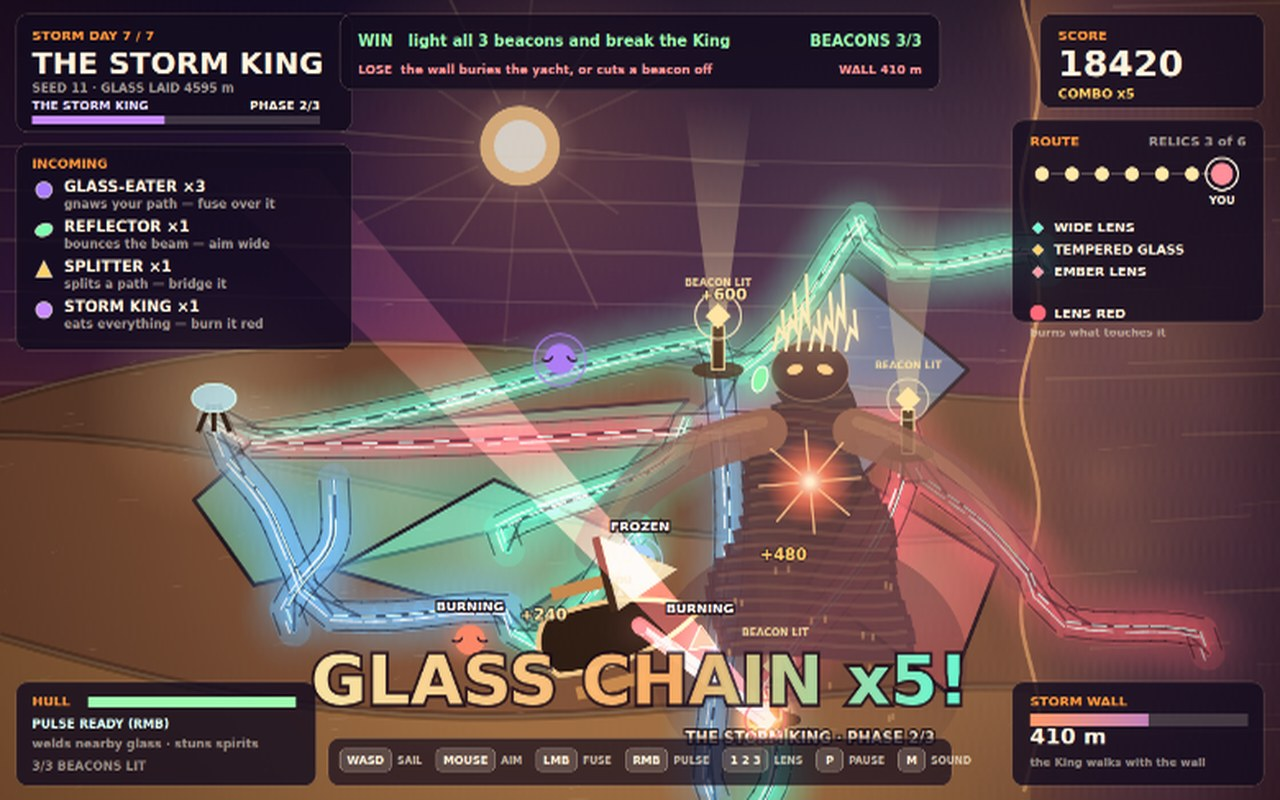
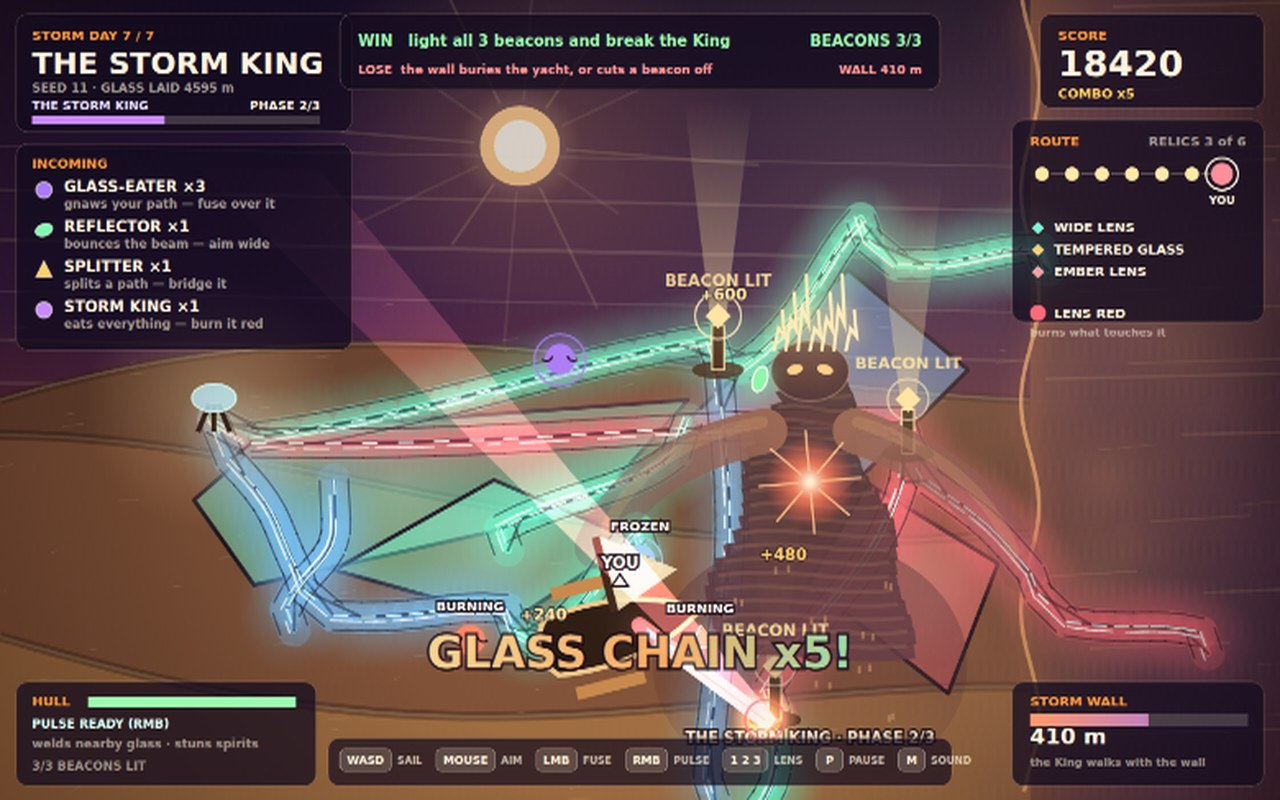
Quieter chrome: smaller combo, lighter panels, an unmissable YOU marker

diff --git a/game/src/hud.js b/game/src/hud.js
@@ -8,7 +8,7 @@ import { PALETTE, ARENA, FONT, font } from './config.js';
 const SANS = FONT;
 
 export function panel(ctx, x, y, w, h, alpha) {
-  ctx.fillStyle = `rgba(20,12,30,${alpha ?? 0.82})`;
+  ctx.fillStyle = `rgba(20,12,30,${alpha ?? 0.76})`;
   ctx.beginPath();
   ctx.roundRect(x, y, w, h, 12);
   ctx.fill();
@@ -324,17 +324,17 @@ export function drawHud(ctx, state) {
     const label = `${words[Math.min(6, day.combo)]} x${day.combo}!`;
     ctx.save();
     ctx.globalAlpha = 0.85 + 0.15 * Math.sin(state.time * 9);
-    fitText(ctx, label, 900, 68, 900);
+    fitText(ctx, label, 720, 44, 900);
     ctx.textAlign = 'center';
     ctx.strokeStyle = 'rgba(24,10,26,0.85)';
-    ctx.lineWidth = 6;
-    ctx.strokeText(label, ARENA.w / 2, ARENA.h - 96);
+    ctx.lineWidth = 5;
+    ctx.strokeText(label, ARENA.w / 2, ARENA.h - 132);
     const shine = ctx.createLinearGradient(ARENA.w / 2 - 300, 0, ARENA.w / 2 + 300, 0);
     shine.addColorStop(0, '#ffe9a8');
     shine.addColorStop(0.55, '#ffb066');
     shine.addColorStop(1, '#6effd6');
     ctx.fillStyle = shine;
-    ctx.fillText(label, ARENA.w / 2, ARENA.h - 96);
+    ctx.fillText(label, ARENA.w / 2, ARENA.h - 132);
     ctx.restore();
     ctx.textAlign = 'left';
   }

diff --git a/game/src/render.js b/game/src/render.js
@@ -631,15 +631,22 @@ export function drawWorldLabels(ctx, state) {
   const { day, yacht, time } = state;
   ctx.font = '700 10px system-ui, sans-serif';
 
-  ctx.fillStyle = '#fff4de';
   ctx.textAlign = 'center';
-  ctx.fillText('YOU', yacht.x, yacht.y - 46);
+  ctx.strokeStyle = 'rgba(16,8,20,0.9)';
+  ctx.lineWidth = 5;
+  ctx.font = '800 16px "DejaVu Sans", "Liberation Sans", Arial, sans-serif';
+  ctx.strokeText('YOU', yacht.x, yacht.y - 62);
+  ctx.fillStyle = '#ffffff';
+  ctx.fillText('YOU', yacht.x, yacht.y - 62);
   ctx.beginPath();
-  ctx.moveTo(yacht.x, yacht.y - 42);
-  ctx.lineTo(yacht.x - 4, yacht.y - 34);
-  ctx.lineTo(yacht.x + 4, yacht.y - 34);
+  ctx.moveTo(yacht.x, yacht.y - 56);
+  ctx.lineTo(yacht.x - 8, yacht.y - 44);
+  ctx.lineTo(yacht.x + 8, yacht.y - 44);
   ctx.closePath();
   ctx.fill();
+  ctx.strokeStyle = '#1a1020';
+  ctx.lineWidth = 2;
+  ctx.stroke();
 
   for (const port of day.ports) {
     if (!port.lit) continue;
